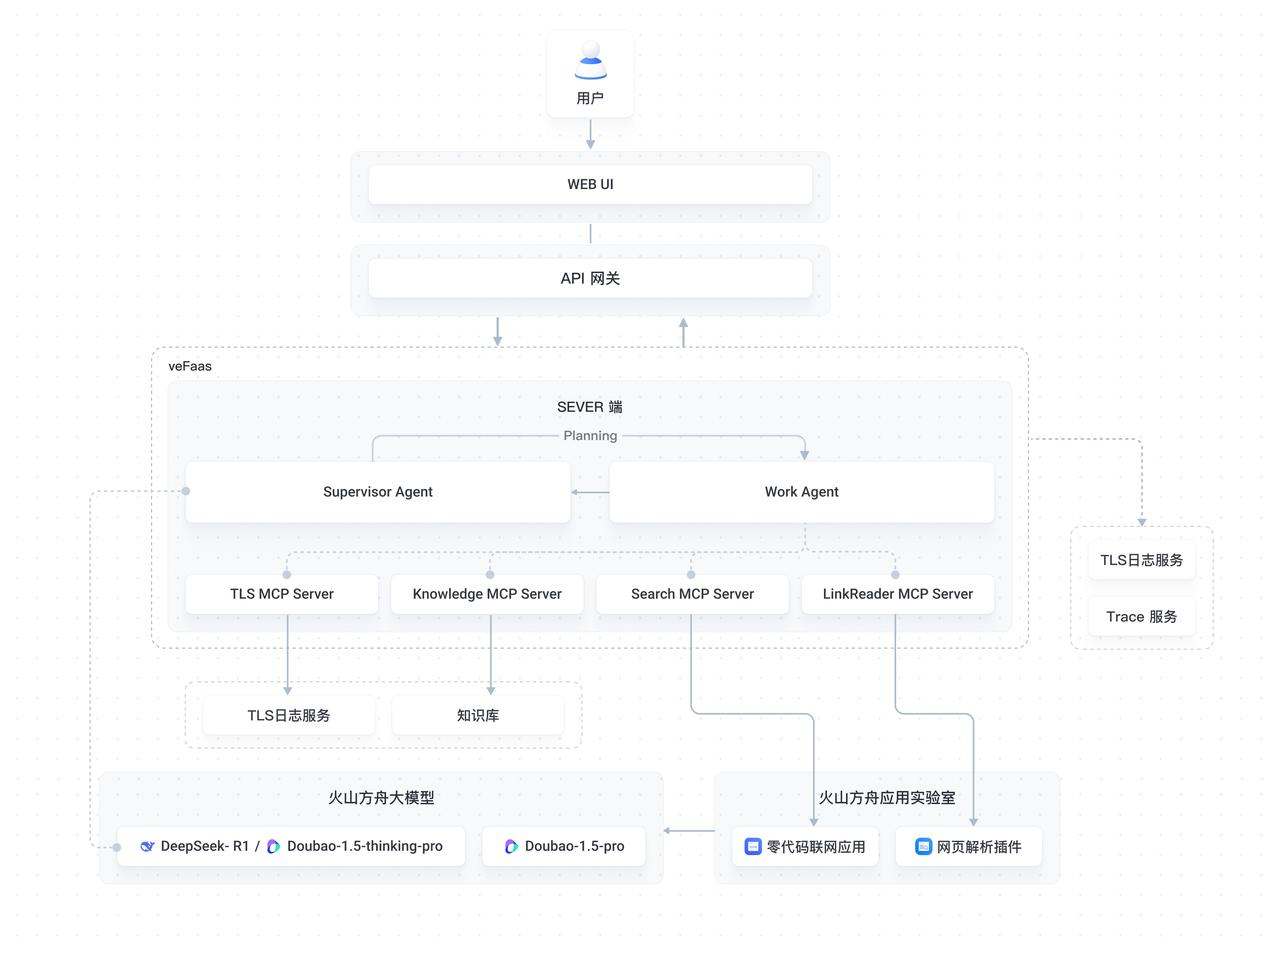
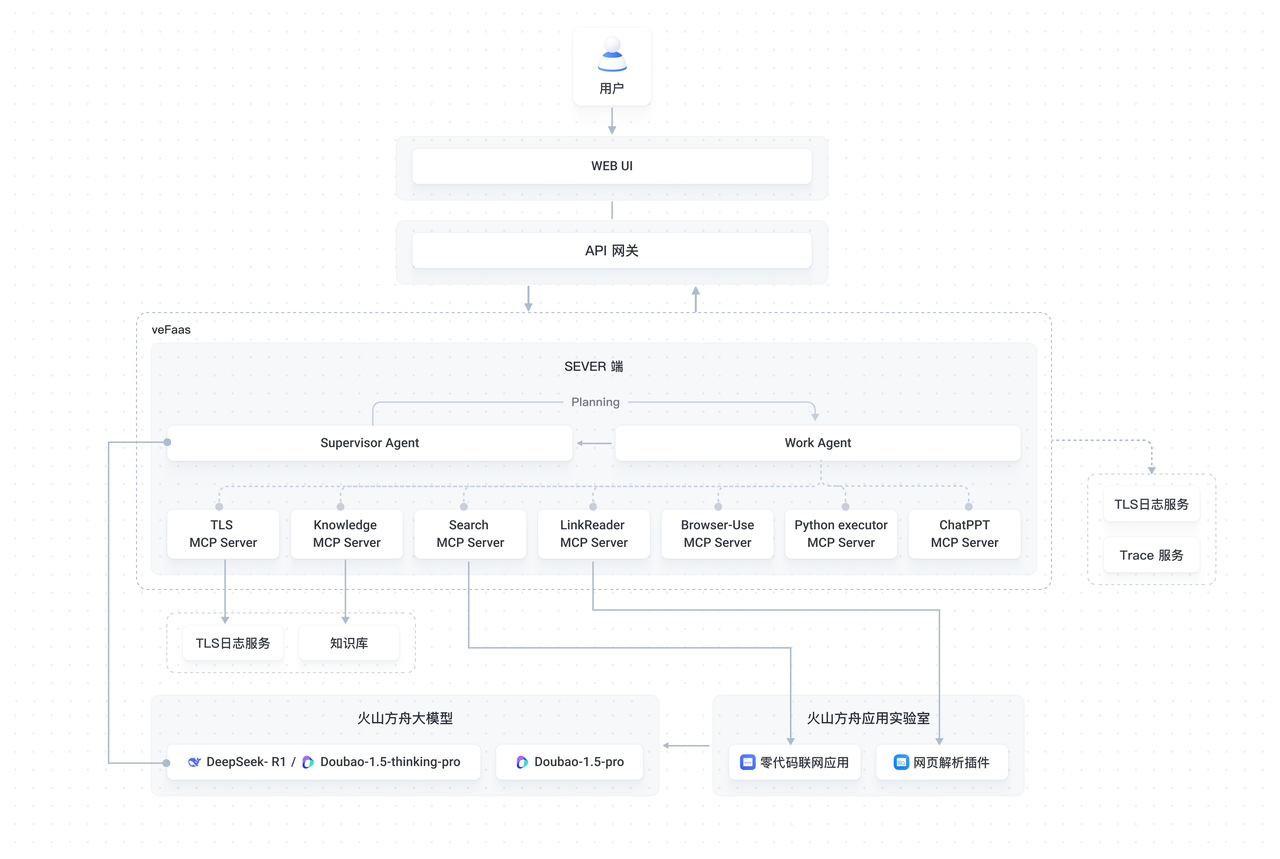
feat(demohouse/deep-search-mcp): modify readme

diff --git a/demohouse/deep_search_mcp/backend/README.md b/demohouse/deep_search_mcp/backend/README.md
@@ -2,7 +2,7 @@
 
 ## 应用介绍
 
-本应用是一款专为处理复杂问题而精心设计的高效工具，可集成联网搜索、知识库、网页解析、日志服务等丰富的 MCP 服务。无论是学术研究、企业决策，还是产品调研场景，它都能助力用户深入挖掘信息，提出切实可行的解决策略。
+DeepSearch 是一款专为处理复杂问题而精心设计的高效工具，可集成浏览器使用、联网搜索、知识库、网页解析、ChatPPT、Python 代码执行器等丰富的 MCP 服务。无论是学术研究、企业决策，还是产品调研场景，它都能助力用户深入挖掘信息，提出切实可行的解决策略。
 
 **架构图**
 
@@ -26,6 +26,12 @@
 - **网页解析插件**
   - 网页解析插件可获取和解析 url 链接下的标题和内容。支持用户快速提取和检索网页、pdf等内容中有价值的信息。
   - 价格详见[计费说明](https://www.volcengine.com/docs/82379/1284852)。
+- **浏览器使用**（可选）
+  - 基于开源项目 Browser-use + Serverless浏览器沙箱，提供开箱即用的 Browser Agent 部署方案，用户可在 大模型生态广场 云部署Browser-Use MCP，并集成代码使用
+  - 由 函数服务 按量计费
+- **必优-ChatPPT**（可选）
+  - 提供必优科技智能PPT服务，包括但不限于PPT创作，PPT美化，PPT生成等能力，用户可在 大模型生态广场 选用该MCP，并集成代码使用
+  - 由 必优科技 官方收费
 - **对象存储 TOS（可选）**
   - 对象存储 TOS 提供的海量、安全、低成本、易用、高可靠、高可用的分布式云存储服务。
   - 每个计费项都是单独计费，价格详见[计费说明](https://www.volcengine.com/docs/6349/78455)。
